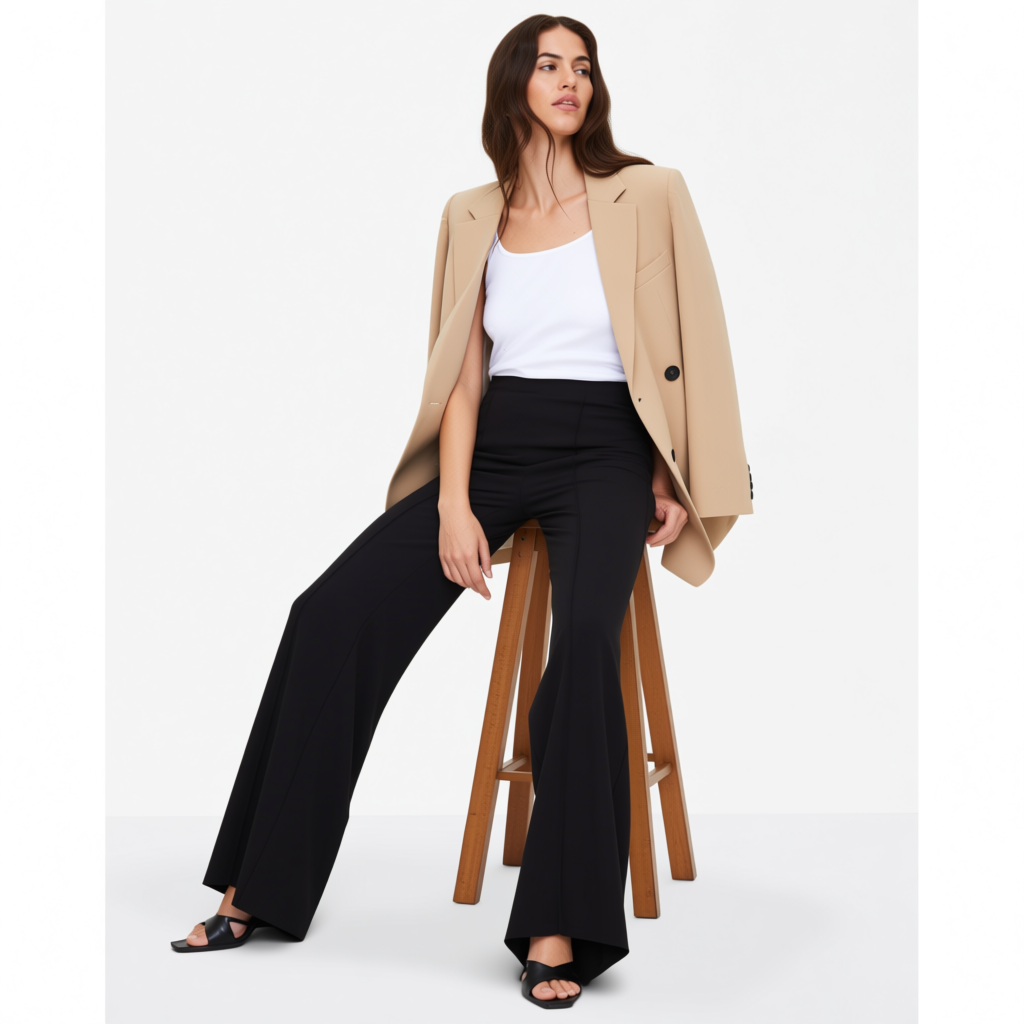
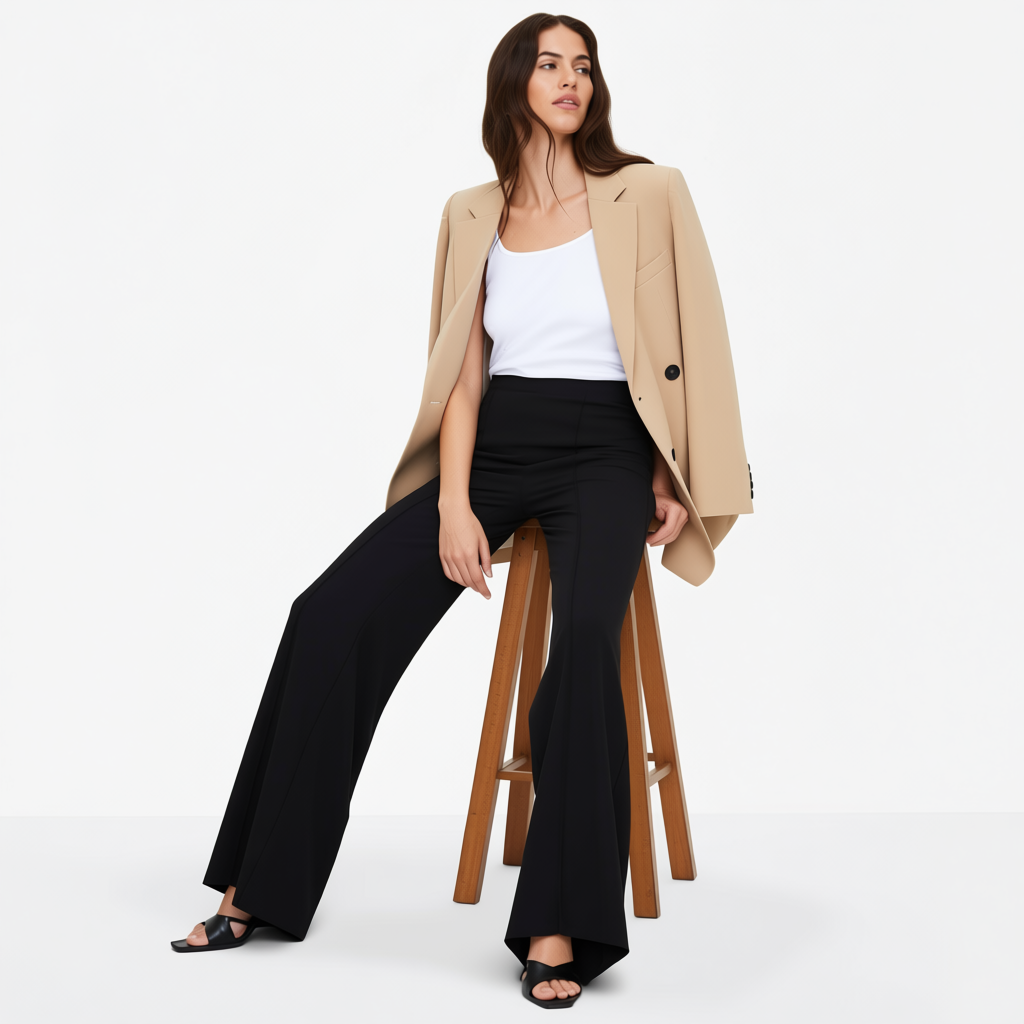
fix images

diff --git a/src/components/HeroSection.tsx b/src/components/HeroSection.tsx
@@ -162,7 +162,7 @@ const HeroSection: React.FC = () => {
                   <img
                     src={currentMedia.src}
                     alt={currentMedia.alt}
-                    className="w-full h-full object-cover"
+                    className="w-full h-full object-cover object-top"
                     // className="w-full h-full"
                   />
                 )}
